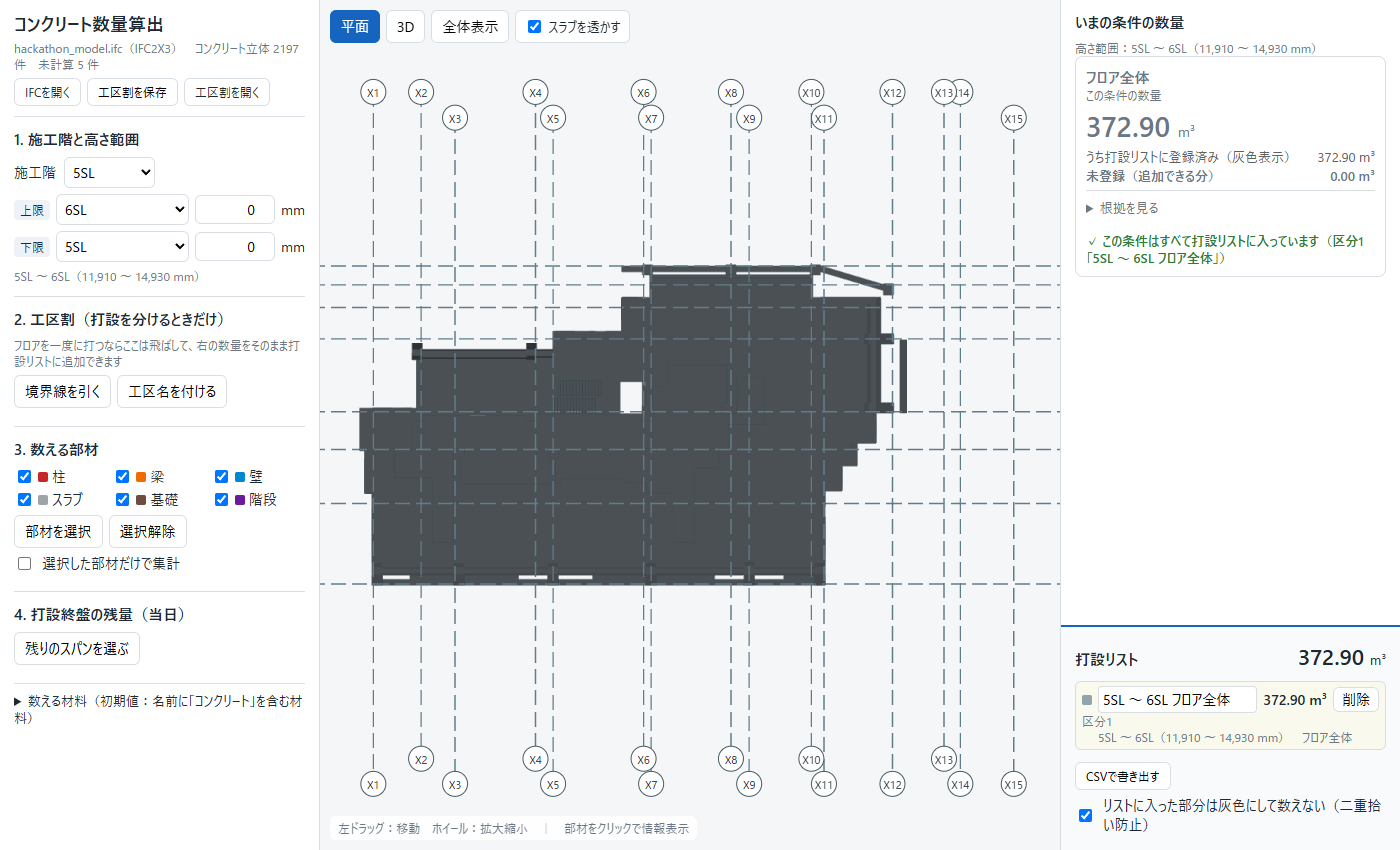
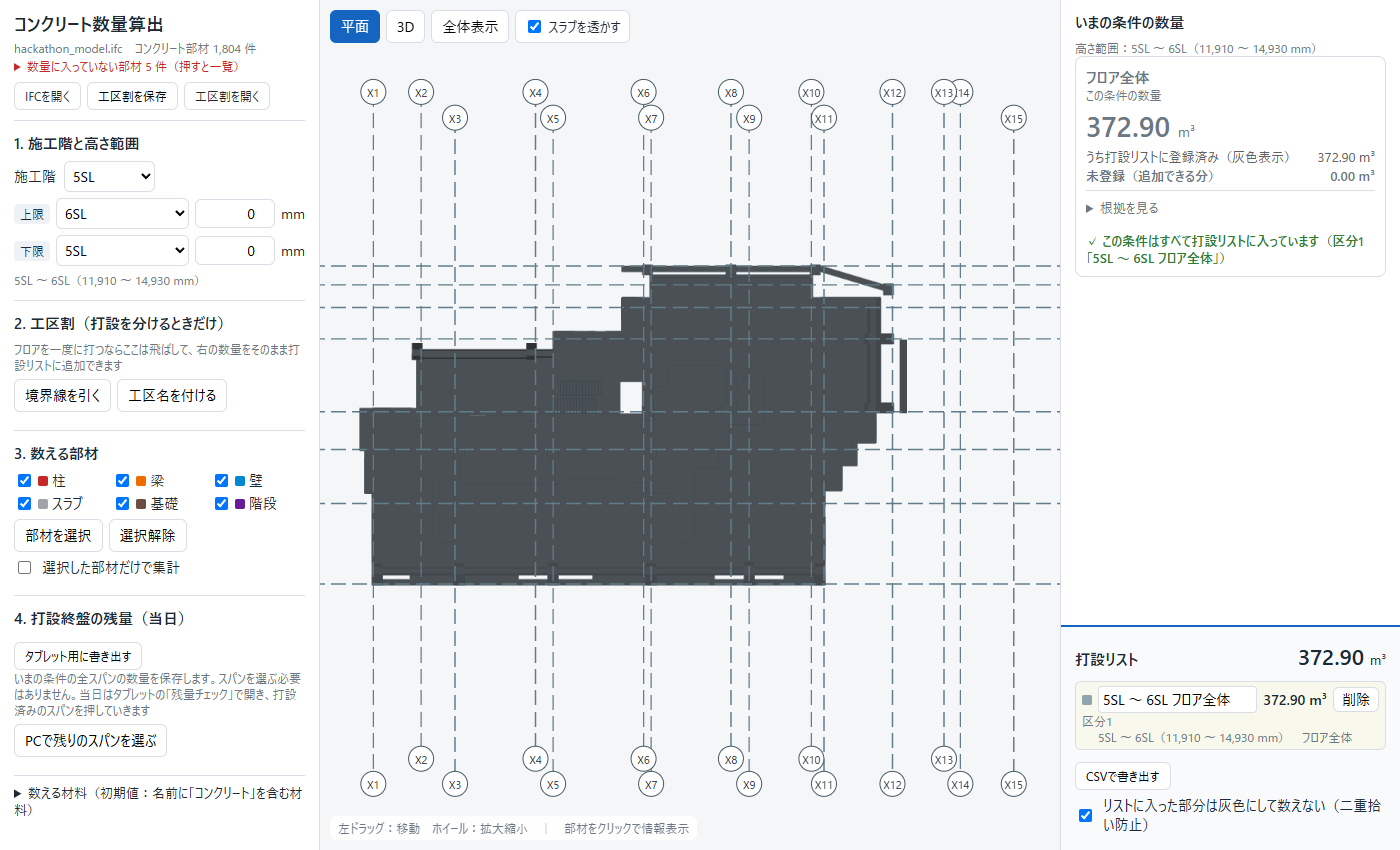
画面の文言を現場向けに直す（site-reviewer の指摘を3回のレビューで解消）
- 「上端」を「コン天」に（PC・タブレット・MCPの返り値・CLAUDE.md の用語）。
  「コン天＝6SLの高さ。0 mm なら天端まで打ち上がり。今打っているスパン（オレンジ）の柱・梁にだけ効きます」
- タブレット：タップの説明（1回＝打設中／2回＝打設済み／3回＝戻す）を図の外に常時表示、
  幅2m未満の細いスパンは数字を省略してその旨を表示、目安ボタンの説明をボタンの直前に、
  「不具合の記録」「担当者」に言い換え、版 1.2.0
- PC・タブレット：「生コン車1台の積載量」「割増（ロス分）」「発注の目安（割増なし）：」。
  残り0のときは「残りなし」（PC・タブレット・MCPとテストをそろえた）
- PC：「タブレット用に書き出す」を「4. 打設終盤の残量」の見出しの直下に出して説明を常時表示、
  「残量の一覧表（CSV）を書き出す」、エラーは「計算できませんでした（詳細：…）」、
  見出しは「コンクリート部材 1,804 件」と「数量に入っていない部材 5 件（押すと一覧）」
- レビュー記録：docs/reviews/2026-11-04_site-reviewer_2.md・_3.md（迷う 2→3→0件）、スクリーンショット更新

diff --git a/frontend/app.js b/frontend/app.js
@@ -596,7 +596,7 @@ function truckPlan(volume) {
   const need = volume * (1 + extra / 100);
   let n = Math.floor(need / cap + 1e-9), last = need - n * cap;
   if (last < 0.005) last = 0;
-  const text = !need ? '—' : !n ? `1台（${fmt(last)} m³）` : last
+  const text = !need ? '残りなし' : !n ? `1台（${fmt(last)} m³）` : last
     ? `${fmt(cap)} m³ × ${n}台 ＋ 最終車 ${fmt(last)} m³（計 ${n + 1} 台）`
     : `${fmt(cap)} m³ × ${n}台（計 ${n} 台）`;
   return { need, extra, text };
@@ -615,15 +615,15 @@ async function runRemain() {
     const v = await remainVolume(ids, depth);
     if (seq !== remainSeq) return;
     const t = truckPlan(v);
-    $('remainResult').innerHTML = `<div class="muted">残り ${ids.length} スパン・柱梁は上端から −${depth.toLocaleString('ja-JP')} mm まで打設済み</div>` +
+    $('remainResult').innerHTML = `<div class="muted">残り ${ids.length} スパン・柱梁はコン天 −${depth.toLocaleString('ja-JP')} mm まで打設済み</div>` +
       `<div class="total">${fmt(v)} m³</div>` + (t.extra ? `<div class="muted">割増 ${t.extra}% 込み ${fmt(t.need)} m³</div>` : '') +
-      `<div class="trucks">${t.text}</div>`;
+      `<div class="trucks">${t.extra ? '発注の目安：' : '発注の目安（割増なし）：'}${t.text}</div>`;
   } catch (e) {
-    if (seq === remainSeq) $('remainResult').innerHTML = `<div class="warn">計算できません：${esc(e.message)}</div>`;
+    if (seq === remainSeq) $('remainResult').innerHTML = `<div class="warn">計算できませんでした（詳細：${esc(e.message)}）</div>`;
   }
 }
 
-// 早見表：「残りのスパン数（打設順の後ろから）× 打ち上がり高さ」の残量と台数
+// 残量の一覧表（早見表）：「残りのスパン数（打設順の後ろから）× 打ち上がり高さ」の残量と台数
 async function exportRemainCsv() {
   const order = [...state.remainCells];
   if (!order.length) { toast('先に残りのスパンを選んでください', 'error'); return; }
@@ -631,11 +631,11 @@ async function exportRemainCsv() {
     .filter(([, d]) => d !== null);
   const cur = Number($('remainDepth').value) || 0;
   if (!levels.some(([, d]) => d === cur)) levels.push(['入力値', cur]);
-  toast('早見表を計算しています…', 'info');
+  toast('残量の一覧表を計算しています…', 'info');
   const rows = order.map((_, k) => order.slice(k)); // 残り n, n-1, ..., 1 スパン
   const vols = await Promise.all(rows.flatMap((ids) => levels.map(([, d]) => remainVolume(ids, d))));
   const head = ['残りのスパン数', '残りのスパン（打設順）'];
-  for (const [name, d] of levels) head.push(`${name}：上端−${d}mm（m3）`, `${name}：生コン車`);
+  for (const [name, d] of levels) head.push(`${name}：コン天−${d}mm（m3）`, `${name}：生コン車`);
   const out = [head];
   rows.forEach((ids, r) => {
     const row = [ids.length, ids.map((id) => cellById(id).label).join(' → ')];
@@ -643,8 +643,8 @@ async function exportRemainCsv() {
     out.push(row);
   });
   out.push([], [`生コン車 ${$('truckM3').value} m³／台・割増 ${$('extraPct').value}%・高さ範囲 ${$('rangeText').textContent}`]);
-  download(`${state.meta.source.replace(/\.ifc$/i, '')}_${stamp()}_残量早見表.csv`, csvBlob(out));
-  toast('早見表を書き出しました', 'ok');
+  download(`${state.meta.source.replace(/\.ifc$/i, '')}_${stamp()}_残量一覧表.csv`, csvBlob(out));
+  toast('残量の一覧表を書き出しました', 'ok');
 }
 
 // タブレット用データ：全スパンの「上端からの深さ→体積」の表を計算サーバーで作り、1つのJSONに保存する
@@ -1293,8 +1293,8 @@ async function runCompute() {
   if (seq !== computeSeq) return;
   if (!res.ok) {
     const detail = await errorDetail(res);
-    $('resultBody').innerHTML = `<div class="warn">計算できません：${esc(detail)}</div>`;
-    toast(`計算できません：${detail}`, 'error');
+    $('resultBody').innerHTML = `<div class="warn">計算できませんでした（詳細：${esc(detail)}）</div>`;
+    toast(`計算できませんでした（詳細：${detail}）`, 'error');
     return;
   }
   // 登録時に「計算した時点の条件」をそのまま使えるよう、条件も一緒に持っておく
@@ -1489,8 +1489,8 @@ async function runUnits() {
   if (seq !== unitSeq) return;
   if (!res.ok) {
     const detail = await errorDetail(res);
-    $('unitSummary').innerHTML = `<div class="warn">計算できません：${esc(detail)}</div>`;
-    toast(`打設リストを計算できません：${detail}`, 'error');
+    $('unitSummary').innerHTML = `<div class="warn">計算できませんでした（詳細：${esc(detail)}）</div>`;
+    toast(`打設リストを計算できませんでした（詳細：${detail}）`, 'error');
     return;
   }
   state.unitResult = await res.json();
@@ -1643,7 +1643,7 @@ async function exportCsv() {
   if (!res.ok) { toast(`CSVを書き出せません：${await errorDetail(res)}`, 'error'); return; }
   const ur = await res.json();
   if (ur.units.some((u) => !u.members)) { // 画面だけ新しく、計算サーバーが古いまま動いているとき
-    toast('CSVを書き出せません：計算サーバーが古いままです。start.bat を閉じて起動し直してください', 'error');
+    toast('CSVを書き出せません。アプリが古い状態です。いったん閉じて、起動し直してください（start.bat の画面を閉じてから、もう一度起動）', 'error');
     return;
   }
   const join = (u, key) => u.parts.map((p) => partFields(p)[key]).join(' ＋ ');
@@ -1725,8 +1725,15 @@ async function openPlan(file) {
 function renderSidebar() {
   const m = state.meta;
   const uncomputed = m.uncomputed.filter((u) => m.materials[u.material]?.included || u.material.includes('コンクリート'));
-  $('modelInfo').textContent = `${m.source}（${m.schema}）　コンクリート立体 ${m.solid_count} 件` +
-    (uncomputed.length ? `　未計算 ${uncomputed.length} 件` : '');
+  // 部材の数（1つの部材が複数の形状に分かれていることがあるので、形状の数ではなく部材で数える）
+  const concrete = new Set(meshes.filter((x) => m.materials[x.userData.material]?.included).map((x) => x.userData.member_id));
+  uncomputed.forEach((u) => concrete.add(u.member_id));
+  $('modelInfo').innerHTML = `${esc(m.source)}　コンクリート部材 ${concrete.size.toLocaleString('ja-JP')} 件` +
+    (uncomputed.length
+      ? `<details class="missing"><summary>数量に入っていない部材 ${uncomputed.length} 件（押すと一覧）</summary><ul>` +
+        uncomputed.map((u) => `<li>${esc(u.category ?? '')} ${esc(u.name || '(名称なし)')}：${esc(u.reason)}</li>`).join('') +
+        '</ul><div>形が閉じていないなど、体積を正しく計算できない部材です。推定では補いません</div></details>'
+      : '');
   state.materials = new Set(defaultMaterials());
   // 複数材料の形状と材料なしは切り分けられないので選べない（コンクリートを含むものは未計算として一覧に出る）
   $('materials').innerHTML = Object.entries(m.materials).map(([name, info]) => {
@@ -1899,12 +1906,12 @@ $('remainBody').addEventListener('click', (ev) => {
   const kind = ev.target.dataset.preset;
   if (!kind) return;
   const d = presetDepth(kind);
-  if (d === null) { toast(`${kind === 'slab' ? 'スラブ' : '梁'}が見つからないため、高さを求められません`, 'error'); return; }
+  if (d === null) { toast(`選んだスパンに${kind === 'slab' ? 'スラブ' : '梁'}がありません。mm を直接入れてください`, 'error'); return; }
   $('remainDepth').value = d;
   scheduleRemain();
 });
 $('exportSite').addEventListener('click', () => exportSite().catch((e) => toast(`タブレット用に書き出せません：${e.message}`, 'error')));
-$('remainCsv').addEventListener('click', () => exportRemainCsv().catch((e) => toast(`早見表を書き出せません：${e.message}`, 'error')));
+$('remainCsv').addEventListener('click', () => exportRemainCsv().catch((e) => toast(`残量の一覧表を書き出せませんでした（詳細：${e.message}）`, 'error')));
 $('exportCsv').addEventListener('click', () => exportCsv().catch((e) => toast(`CSVを書き出せません：${e.message}`, 'error')));
 $('planInput').addEventListener('change', (ev) => {
   if (ev.target.files[0]) openPlan(ev.target.files[0]);

diff --git a/site_app/app.js b/site_app/app.js
@@ -1,12 +1,13 @@
 // 現場残量アプリの画面。数量の計算は calc.js（PCアプリで作った表を引いて足すだけ）
 import { fmt, fullVolume, parseSiteData, presetMm, totals, remaining, truckPlan } from './calc.js';
 
-const APP_VERSION = '1.0.0'; // sw.js の VERSION と合わせる（キャッシュで古い版が動いていないか確かめる用）
+const APP_VERSION = '1.2.0'; // sw.js の VERSION と合わせる（キャッシュで古い版が動いていないか確かめる用）
 const $ = (id) => document.getElementById(id);
 const SVGNS = 'http://www.w3.org/2000/svg';
 const CAT_COLORS = { 柱: '#c62828', 梁: '#ef6c00', 壁: '#0288d1', スラブ: '#a0a4a8', 基礎: '#6d4c41', 階段: '#6a1b9a', その他: '#546e7a' };
 const NEXT = { todo: 'pouring', pouring: 'done', done: 'todo' }; // タップで巡る順
 const EMPTY = 0.0005; // m³。これ未満のスパン（建物の外の帯など）はタップの対象にしない
+const THIN_SPAN = 2.0; // m。短い辺がこれ未満のスパンは数字を出さない（ふつうのスパンは3〜8m。通り芯が近い間や端の帯）
 const TAP_SLOP = 10; // px。指を離したときの移動がこれ未満ならタップ
 const STORE = 'site.work.'; // localStorage：スパンの状態と履歴（データファイル本体は保存しない）
 const LAST = 'site.last';
@@ -163,11 +164,13 @@ function buildPlan() {
     cellsG.appendChild(path);
     if (empty) continue;
     const xs = c.ring.map((p) => p[0]), ys = c.ring.map((p) => p[1]);
-    const fs = Math.min(Math.max(Math.min(Math.max(...xs) - Math.min(...xs), Math.max(...ys) - Math.min(...ys)) * 0.28, size * 0.006), size * 0.02);
+    const short = Math.min(Math.max(...xs) - Math.min(...xs), Math.max(...ys) - Math.min(...ys));
+    const fs = Math.min(Math.max(short * 0.28, size * 0.006), size * 0.02);
     const [cx, cy] = centroid(c.ring);
     const text = el('text', { x: cx.toFixed(3), y: (-cy).toFixed(3), class: 'cellnum', 'font-size': fs.toFixed(3) });
     nums.appendChild(text);
-    cellEls.set(c.id, { path, text, cell: c });
+    // 細いスパン（通り芯が近い間・建物の端の帯）は小さな数字が並んで読めないので出さない（色と数量の合計はそのまま）
+    cellEls.set(c.id, { path, text, cell: c, thin: short < THIN_SPAN });
   }
 
   // 通り芯と記号
@@ -233,7 +236,7 @@ const statusOf = (id) => work.statuses[id] ?? 'todo';
 const depthOf = (id) => work.cellDepth[id] ?? work.depth;
 
 function updateCells() {
-  for (const [id, { path, text, cell }] of cellEls) {
+  for (const [id, { path, text, cell, thin }] of cellEls) {
     if (!inZone(cell)) { // 選んでいない工区は薄くして、タップしても反応しない
       path.setAttribute('class', 'cell other');
       text.textContent = '';
@@ -243,7 +246,7 @@ function updateCells() {
     path.setAttribute('class', `cell ${s}${work.cellDepth[id] !== undefined ? ' own' : ''}`);
     text.setAttribute('class', `cellnum ${s}`);
     const v = remaining(cell, s, depthOf(id), data);
-    text.textContent = s === 'done' || v < 0.05 ? '' : fmt(v, 1); // 0.0 と出るごく小さいスパンは数字を出さない
+    text.textContent = s === 'done' || thin || v < 0.05 ? '' : fmt(v, 1); // 0.0 と出るごく小さいスパンも数字を出さない
   }
 }
 
@@ -256,12 +259,13 @@ function render() {
   $('done').textContent = `${fmt(t.done)} m³`;
   $('rest').textContent = `${fmt(t.remaining)} m³`;
   const plan = truckPlan(t.remaining, work.truck, work.extra);
-  $('trucks').textContent = (plan.extra ? `割増 ${plan.extra}% 込み ${fmt(plan.need)} m³　` : '') + plan.text;
+  $('trucks').textContent = (plan.extra ? `発注の目安：割増 ${plan.extra}% 込み ${fmt(plan.need)} m³　` : '発注の目安（割増なし）：') + plan.text;
   $('restInfo').textContent = `残り ${rest} スパン${pouring ? `（うち打設中 ${pouring}）` : ''}`;
   $('undo').disabled = !work.undo.length;
   const topName = (data.storeys ?? []).find((s) => Math.abs(s.elevation - data.z1) < 0.005)?.name;
-  $('depthNote').textContent = (topName ? `上端＝${topName}。` : '') +
-    (pouring ? '打設中のスパンにかかります' : '打設中のスパンがありません（スパンをタップすると打設中になります）');
+  $('depthNote').textContent = `コン天＝${topName ?? '高さ範囲の上端'}の高さ。0 mm なら天端まで打ち上がり。` +
+    (pouring ? 'この高さは、今打っているスパン（オレンジ）の柱・梁にだけ効きます（打設中が複数なら全部に同じ値）'
+      : '今打っているスパンがありません（スパンをタップすると打設中になります）');
 }
 
 function syncInputs() {
@@ -404,7 +408,7 @@ function applyPreset(kind) {
     const mine = [...cellEls.values()].map(({ cell }) => cell).filter(inZone);
     const pouring = mine.filter((c) => statusOf(c.id) === 'pouring');
     mm = presetMm(pouring.length ? pouring : mine, kind);
-    if (mm === null) { toast(`${kind === 'slab_bottom_mm' ? 'スラブ' : '梁'}が見つからないため、目安を出せません`, 'error'); return; }
+    if (mm === null) { toast(`打設中のスパンに${kind === 'slab_bottom_mm' ? 'スラブ' : '梁'}がありません。mm を直接入れてください`, 'error'); return; }
   }
   pushUndo();
   work.depth = mm;

diff --git a/site_app/index.html b/site_app/index.html
@@ -21,7 +21,7 @@
     <p class="note">PCアプリの「タブレット用に書き出す」で作ったファイルを選んでください</p>
     <div id="lastWork" class="lastwork hidden"></div>
     <p id="startError" class="error hidden"></p>
-    <p class="note"><button class="btn small" data-open-settings>設定・エラー記録</button></p>
+    <p class="note"><button class="btn small" data-open-settings>設定・不具合の記録</button></p>
   </section>
 
   <!-- 作業画面 -->
@@ -51,20 +51,23 @@
     </div>
 
     <footer class="controls">
+      <div class="taphint">スパンをタップ：1回＝打設中　2回＝打設済み　3回＝未打設に戻す<br>
+        <span class="small muted">幅2m未満の細いスパンは数字を省略しています（量は合計に入っています）</span></div>
       <div class="row">
-        <label for="depth">柱・梁の打上り：上端 −</label>
+        <label for="depth">柱・梁の打ち上がり：コン天 −</label>
         <input id="depth" type="number" inputmode="numeric" min="0" step="10" value="0"><span>mm</span>
       </div>
       <div id="depthNote" class="small muted"></div>
+      <div class="presetcap">目安を入れる（打設中のスパンの値。押すと上の欄に入ります）</div>
       <div class="row presets">
         <button class="btn" data-preset="slab_bottom_mm">スラブ下</button>
         <button class="btn" data-preset="beam_mid_mm">梁せい中央</button>
         <button class="btn" data-preset="none">未打設（全量）</button>
       </div>
       <div class="row">
-        <label for="truck">生コン車</label>
-        <input id="truck" type="number" inputmode="decimal" min="0.25" step="0.25"><span>m³／台</span>
-        <label for="extra">割増</label>
+        <label for="truck">生コン車1台の積載量</label>
+        <input id="truck" type="number" inputmode="decimal" min="0.25" step="0.25"><span>m³</span>
+        <label for="extra">割増（ロス分）</label>
         <input id="extra" type="number" inputmode="decimal" min="0" step="1"><span>%</span>
       </div>
       <div class="row tools">
@@ -86,14 +89,14 @@
   <div id="settings" class="sheet hidden">
     <div class="sheetbody">
       <h2>設定</h2>
-      <p>アプリの版：<b id="appVersion"></b></p>
+      <p>アプリの版：<b id="appVersion"></b>（新しい版に入れ替わったかの確認用）</p>
       <p class="small muted">データはこの端末の中だけで扱い、どこにも送信しません。作業の状態はこの端末に自動で保存します。</p>
-      <h3>エラー記録</h3>
-      <p class="small muted">うまく動かないときは、この内容をコピーして開発担当に送ってください</p>
+      <h3>不具合の記録</h3>
+      <p class="small muted">うまく動かないときは、この内容をコピーして担当者に送ってください</p>
       <textarea id="errorLog" class="errorlog" readonly></textarea>
       <div class="row">
-        <button id="copyErrors" class="btn small">エラー記録をコピー</button>
-        <button id="clearErrors" class="btn small">エラー記録を消す</button>
+        <button id="copyErrors" class="btn small">記録をコピー</button>
+        <button id="clearErrors" class="btn small">記録を消す</button>
       </div>
       <h3>保存した作業</h3>
       <div class="row">

diff --git a/frontend/index.html b/frontend/index.html
@@ -78,16 +78,18 @@
 
     <section>
       <h2>4. 打設終盤の残量（当日）</h2>
-      <div class="modes"><button data-mode="remain" class="mode">残りのスパンを選ぶ</button></div>
-      <div id="remainHelp" class="help hidden">平面図で残りのスパンをタップ（打設順に。もう一度タップで外す）。柱・梁は下の高さまで打設済みとして計算します</div>
+      <div class="filebtns"><button id="exportSite" class="filebtn">タブレット用に書き出す</button></div>
+      <div class="muted">いまの条件の全スパンの数量を保存します。スパンを選ぶ必要はありません。当日はタブレットの「残量チェック」で開き、打設済みのスパンを押していきます</div>
+      <div class="modes"><button data-mode="remain" class="mode">PCで残りのスパンを選ぶ</button></div>
+      <div id="remainHelp" class="help hidden">平面図で残りのスパンを打設する順にタップ（もう一度タップで外す）。柱・梁は下の高さまで打設済みとして計算します</div>
       <div id="remainBody" class="hidden">
-        <div class="row">柱・梁の打上り：上端 −<input id="remainDepth" type="number" step="10" min="0" value="0">mm</div>
+        <div class="row">柱・梁の打ち上がり：コン天 −<input id="remainDepth" type="number" step="10" min="0" value="0">mm</div>
+        <div class="muted">目安を入れる（選んだスパンの値。押すと上の欄に入ります）</div>
         <div class="row presets"><button data-preset="slab">スラブ下</button><button data-preset="beam">梁せい中央</button><button data-preset="none">未打設（全量）</button></div>
-        <div class="row">生コン車 <input id="truckM3" type="number" step="0.25" min="0.25" value="4.25">m³／台　割増 <input id="extraPct" type="number" step="1" min="0" value="0">%</div>
+        <div class="row">生コン車1台の積載量 <input id="truckM3" type="number" step="0.25" min="0.25" value="4.25">m³　割増（ロス分） <input id="extraPct" type="number" step="1" min="0" value="0">%</div>
         <div id="remainResult" class="remain"></div>
         <div class="filebtns">
-          <button id="remainCsv" class="filebtn" title="残りのスパン数ごと・打ち上がり高さごとの残量表">早見表をCSVで書き出す</button>
-          <button id="exportSite" class="filebtn" title="全スパンの数量表を、タブレットの「残量チェック」で開くファイルに保存します（スパンを選ばなくても押せます）">タブレット用に書き出す</button>
+          <button id="remainCsv" class="filebtn" title="残りのスパン数ごと・打ち上がり高さごとの残量と台数の表（印刷して持ち出す用）">残量の一覧表（CSV）を書き出す</button>
         </div>
       </div>
     </section>

diff --git a/site_app/style.css b/site_app/style.css
@@ -68,6 +68,10 @@ input[type=number] { font: inherit; font-size: 20px; width: 110px; min-height: 4
 
 .planwrap { grid-area: plan; position: relative; min-height: 0; background: #fafbfc; }
 .plan { width: 100%; height: 100%; display: block; touch-action: none; user-select: none; -webkit-user-select: none; }
+/* タップの説明は図に重ねず、入力欄の上に置く */
+.taphint { background: #fff3e0; border-radius: 8px; padding: 6px 10px; font-size: 15px; margin-bottom: 4px; }
+/* 目安ボタンの説明は、コン天の説明と見分けが付くよう1行あけてボタンの直前に */
+.presetcap { font-size: 14px; color: var(--text); margin-top: 10px; }
 .legend { position: absolute; left: 8px; bottom: 8px; display: flex; gap: 12px; align-items: center; flex-wrap: wrap;
   background: rgba(255,255,255,.92); border-radius: 8px; padding: 4px 8px; font-size: 14px; }
 .sw { display: inline-block; width: 16px; height: 16px; border: 1px solid #90a4ae; border-radius: 3px; vertical-align: -3px; margin-right: 4px; }

diff --git a/site_app/sw.js b/site_app/sw.js
@@ -1,6 +1,6 @@
 // オフラインでも開けるよう、アプリ本体（HTML・JS・CSS・アイコン）だけを保存する。データファイルは保存しない
 // 電波があるときは常に最新版を取りに行き（古い版が残らない）、圏外のときだけ保存した版を使う
-const VERSION = '1.0.0'; // app.js の APP_VERSION と合わせる
+const VERSION = '1.2.0'; // app.js の APP_VERSION と合わせる
 const CACHE = `site-app-${VERSION}`;
 const SHELL = ['./', './index.html', './app.js', './calc.js', './style.css', './manifest.webmanifest',
   './icons/icon-192.png', './icons/icon-512.png'];

diff --git a/site_app/tests/calc.test.js b/site_app/tests/calc.test.js
@@ -66,7 +66,7 @@ test('生コン車の文面はPCアプリと同じ', () => {
   assert.equal(truckPlan(23.769, 4.25, 0).text, '4.25 m³ × 5台 ＋ 最終車 2.52 m³（計 6 台）');
   assert.equal(truckPlan(3.961, 4.25, 0).text, '1台（3.96 m³）');
   assert.equal(truckPlan(8.5, 4.25, 0).text, '4.25 m³ × 2台（計 2 台）');
-  assert.equal(truckPlan(0, 4.25, 0).text, '—');
+  assert.equal(truckPlan(0, 4.25, 0).text, '残りなし');
   const t = truckPlan(72.78, 4.25, 3); // 割増 3% → 74.9634
   near(t.need, 74.9634, 1e-9);
   assert.equal(t.text, '4.25 m³ × 17台 ＋ 最終車 2.71 m³（計 18 台）');

diff --git a/site_app/calc.js b/site_app/calc.js
@@ -58,7 +58,7 @@ export function truckPlan(volume, truckM3, extraPct) {
   const n = Math.floor(need / cap + 1e-9);
   let last = need - n * cap;
   if (last < 0.005) last = 0;
-  const text = !need ? '—' : !n ? `1台（${fmt(last)} m³）` : last
+  const text = !need ? '残りなし' : !n ? `1台（${fmt(last)} m³）` : last
     ? `${fmt(cap)} m³ × ${n}台 ＋ 最終車 ${fmt(last)} m³（計 ${n + 1} 台）`
     : `${fmt(cap)} m³ × ${n}台（計 ${n} 台）`;
   return { need, extra, text };

diff --git a/frontend/style.css b/frontend/style.css
@@ -40,6 +40,8 @@ h2 { font-size: 15px; margin: 0 0 8px; }
 section { border-top: 1px solid var(--line); padding: 12px 0; }
 header { padding-bottom: 10px; }
 .muted { color: var(--muted); font-size: 12px; }
+#modelInfo details.missing summary { color: var(--warn); cursor: pointer; padding: 2px 0; border: none; font-size: 12px; }
+#modelInfo details.missing ul { margin: 4px 0; padding-left: 18px; }
 .hidden { display: none !important; }
 button, select, input { font: inherit; }
 button {

diff --git a/backend/mcp_server.py b/backend/mcp_server.py
@@ -225,7 +225,7 @@ def truck_plan(volume_m3: float, truck_m3: float, extra_pct: float) -> tuple[flo
     if last < 0.005:
         last = 0
     if not need:
-        return need, "—"
+        return need, "残りなし"
     if not n:
         return need, f"1台（{last:,.2f} m³）"
     if last:
@@ -243,7 +243,7 @@ def remaining(storey: str, spans: list[str], depth_mm: float | None = None, pres
     スラブは全厚を数え、重なりは1回だけ数える。
     - storey：施工階（例「5SL」「5階」）
     - spans：残りのスパン。通り芯の範囲で1つずつ（例 ["X8～X9×Y1～Y2", "X9～X10×Y1～Y2"]）。複数スパンをまとめて「X8～X11×Y1～Y2」でもよい
-    - depth_mm：柱・梁の打ち上がり。上端から何 mm 下まで打ってあるか（0＝上端まで打設済み＝スラブだけが残る）
+    - depth_mm：柱・梁の打ち上がり。コン天（その階の上のSL）から何 mm 下まで打ってあるか（0＝コン天まで打設済み＝スラブだけが残る）
     - preset：depth_mm の代わりに「スラブ下」「梁せい中央」「未打設」（PCアプリのボタンと同じ目安。残りのスパンに掛かる部材の中央値）
     - truck_m3：生コン車1台の積載量、extra_pct：割増（%）
     返り値の「定義」を回答に添えること。
@@ -269,7 +269,7 @@ def remaining(storey: str, spans: list[str], depth_mm: float | None = None, pres
         else:
             raise AskAgain(f"preset「{preset}」はありません。「スラブ下」「梁せい中央」「未打設」のどれか")
     elif depth_mm is None:
-        raise AskAgain("柱・梁の打ち上がりを depth_mm（上端から何 mm 下）か preset（「スラブ下」など）で指定してください")
+        raise AskAgain("柱・梁の打ち上がりを depth_mm（コン天から何 mm 下）か preset（「スラブ下」など）で指定してください")
     else:
         used = "数値で指定"
     depth_mm = max(0.0, float(depth_mm))
@@ -283,7 +283,7 @@ def remaining(storey: str, spans: list[str], depth_mm: float | None = None, pres
     need, trucks = truck_plan(res.total, truck_m3, extra_pct)
     return {
         "条件": {"施工階": label, "残りのスパン": items, "スパン数": len(items),
-               "柱・梁の打ち上がり": f"上端 −{depth_mm:,.0f} mm（{used}）"},
+               "柱・梁の打ち上がり": f"コン天 −{depth_mm:,.0f} mm（{used}）"},
         "残り数量m3": res.total,
         **({"割増込みm3": need} if extra_pct else {}),
         "生コン車": trucks,

diff --git a/backend/scripts/app_driver.py b/backend/scripts/app_driver.py
@@ -72,12 +72,10 @@ def open_pc(ctx, base: str, storey: str = "5SL"):
 
 
 def export_site(page, dest: Path) -> Path:
-    """「4. 打設終盤の残量」→「タブレット用に書き出す」を押して、保存されたファイルを dest に置く。"""
-    page.click("button[data-mode=remain]")
+    """「4. 打設終盤の残量」の「タブレット用に書き出す」を押して、保存されたファイルを dest に置く。"""
     with page.expect_download(timeout=180_000) as dl:
         page.click("#exportSite")
     dl.value.save_as(dest)
-    page.click("button[data-mode=remain]")  # モードを抜ける
     return dest
 
 

diff --git a/backend/tests/test_mcp_server.py b/backend/tests/test_mcp_server.py
@@ -12,7 +12,7 @@ def test_truck_plan_same_text_as_pc():
     assert ms.truck_plan(23.769, 4.25, 0)[1] == "4.25 m³ × 5台 ＋ 最終車 2.52 m³（計 6 台）"
     assert ms.truck_plan(3.961, 4.25, 0)[1] == "1台（3.96 m³）"
     assert ms.truck_plan(8.5, 4.25, 0)[1] == "4.25 m³ × 2台（計 2 台）"
-    assert ms.truck_plan(0, 4.25, 0)[1] == "—"
+    assert ms.truck_plan(0, 4.25, 0)[1] == "残りなし"
     need, text = ms.truck_plan(72.78, 4.25, 3)
     assert need == pytest.approx(74.9634)
     assert text == "4.25 m³ × 17台 ＋ 最終車 2.71 m³（計 18 台）"
